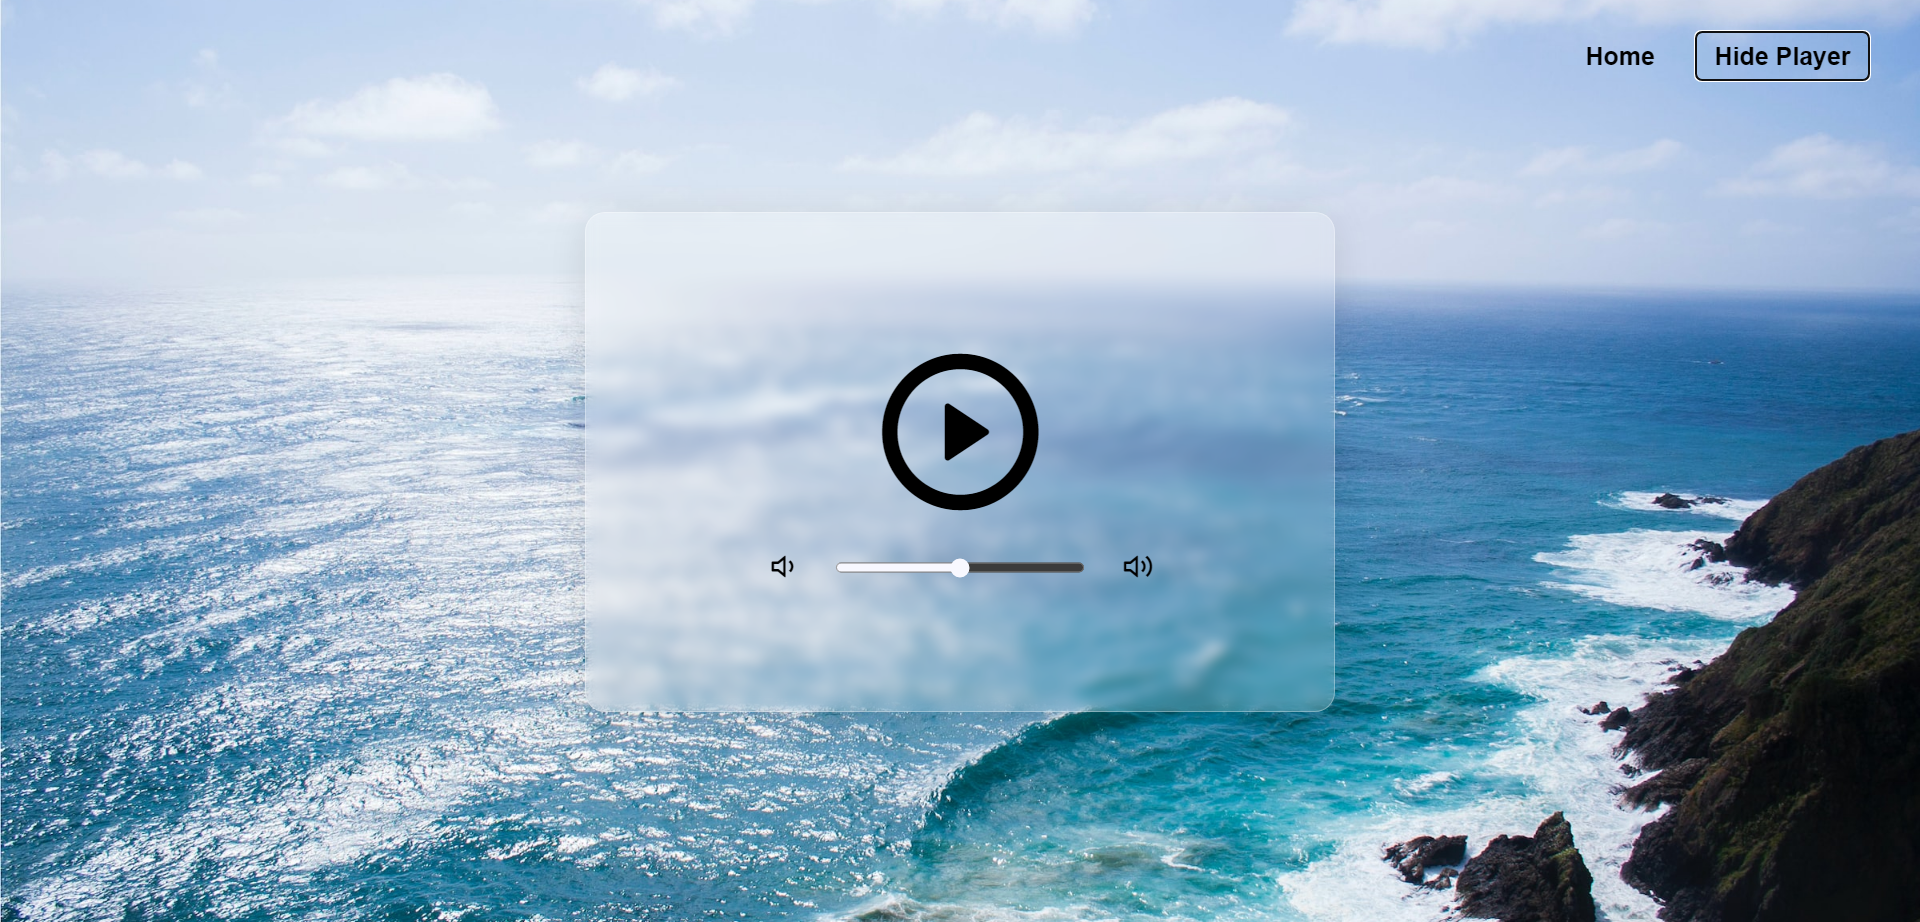
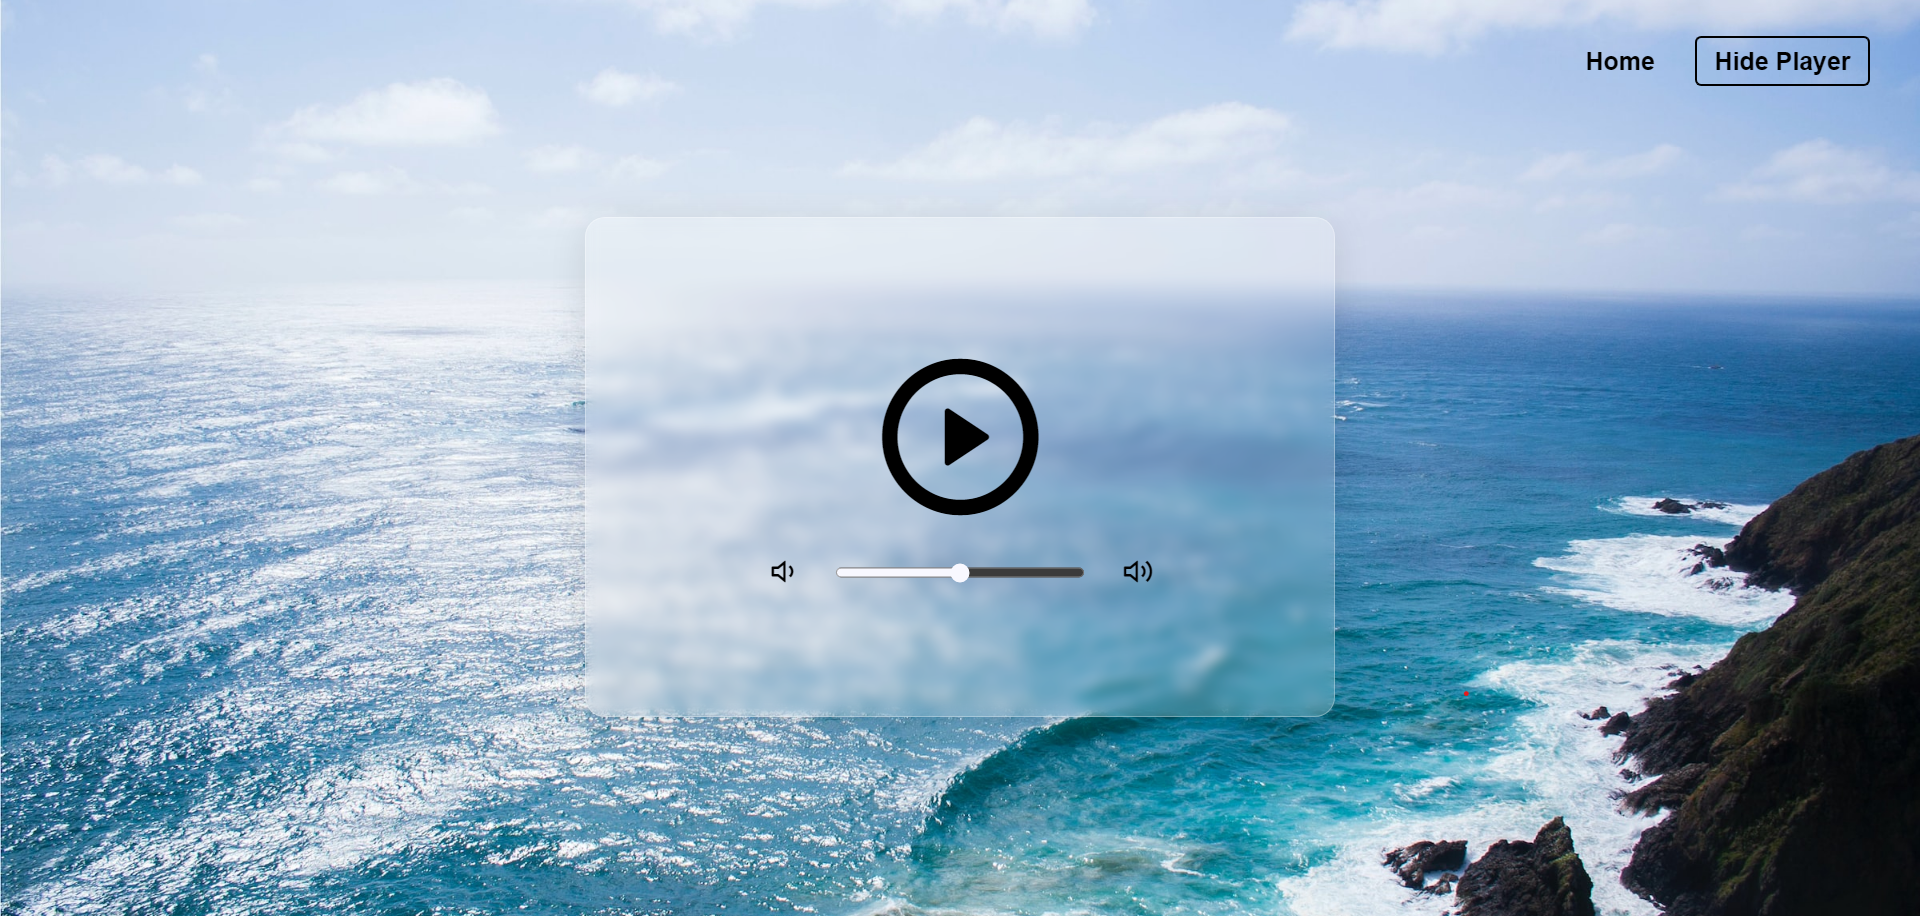
update to laptop image

diff --git a/css/styles.css b/css/styles.css
@@ -347,7 +347,7 @@ textarea {
 }
 
 #site-3 {
-    background-image: url(../images/6.png);
+    background-image: url(../images/11.png);
     background-repeat: round;
 }
 
